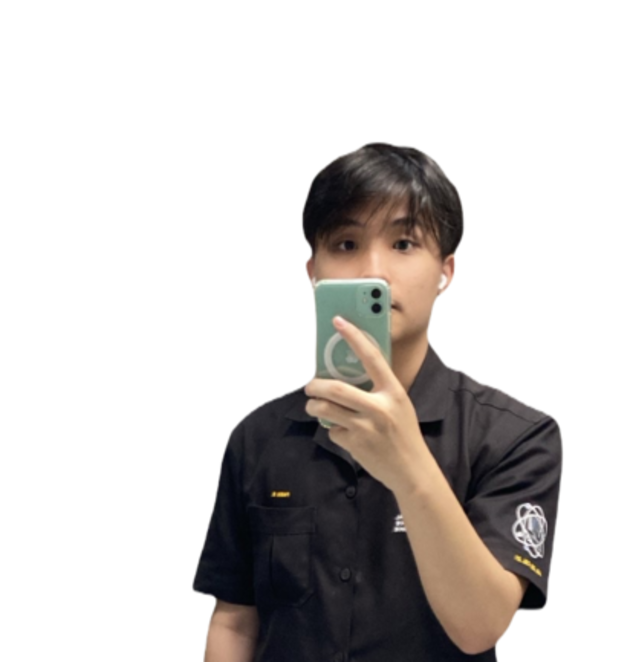
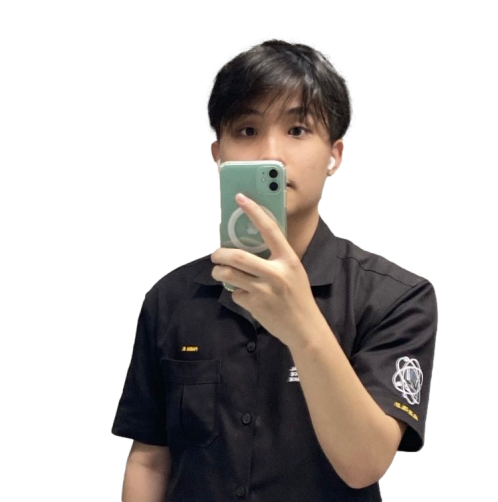
update

Changed region(s): [[0.2108, 0.0598, 0.9036, 1.0], [0.4518, 0.8665, 0.4819, 0.9263], [0.4819, 0.8068, 0.512, 0.8367]]

diff --git a/Portfolio/index.html b/Portfolio/index.html
@@ -34,9 +34,9 @@
             <p>3rd year student, Kasetsart University Kamphaeng Saen Campus Bachelor of Science Program Department of Computer Science
             </p>
             <a href="https://drive.google.com/uc?export=download&id=1-HbIzzS3595uzDg5AiE8i9yxqzbRzWMT" target="blank">Download CV</a>
-            <a href="#" class="ctaa"><i class="ri-contacts-fill"></i>Contant Info</a>
+            <a href="#" class="ctaa"><i class="ri-contacts-fill"></i>Contact Info</a>
         </div>
-        <div class="hero-img"><img src="main.png" alt=""></div>
+        <div class="hero-img"><img src="main.jpg" alt=""></div>
     </section>
 
     <div class="icons">

diff --git a/Portfolio/style.css b/Portfolio/style.css
@@ -66,7 +66,7 @@ header {
     height: 100%;
     width: 100%;
     min-height: 100vh;
-    background: linear-gradient(245.59deg, #46C2CB 0%, #0174BE 28.53%, #2F58CD 75.52%);
+    background: linear-gradient(245.59deg, #46C2CB 10%, #0174BE 29.53%, #00337C 70.52%);
     position: relative;
     display: grid;
     grid-template-columns: repeat(2, 1fr);
@@ -108,7 +108,7 @@ section {
 }
 
 .hero-img img{
-    width: 660px;
+    width: 600px;
     height: auto;
 }
 
